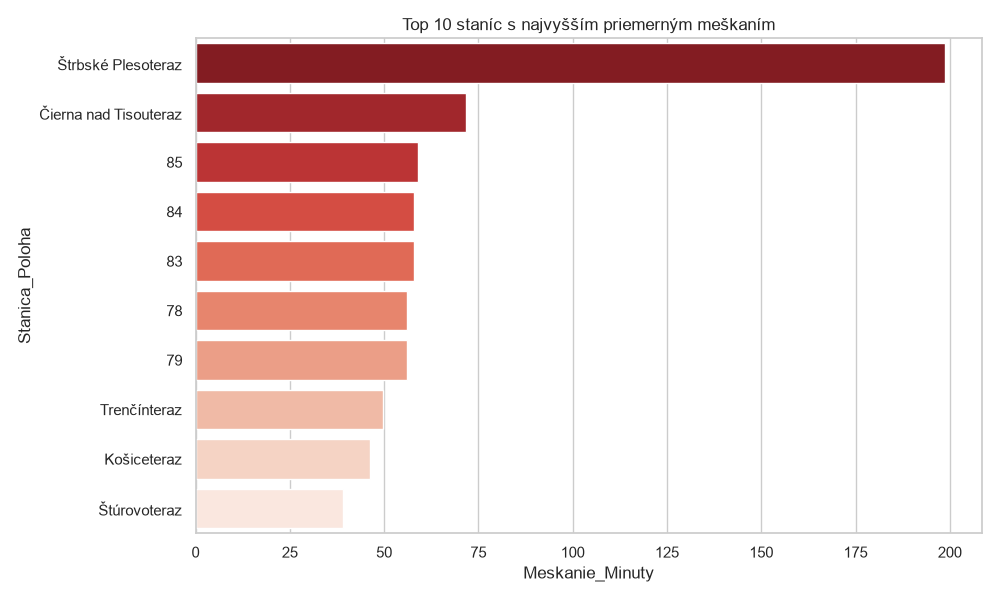
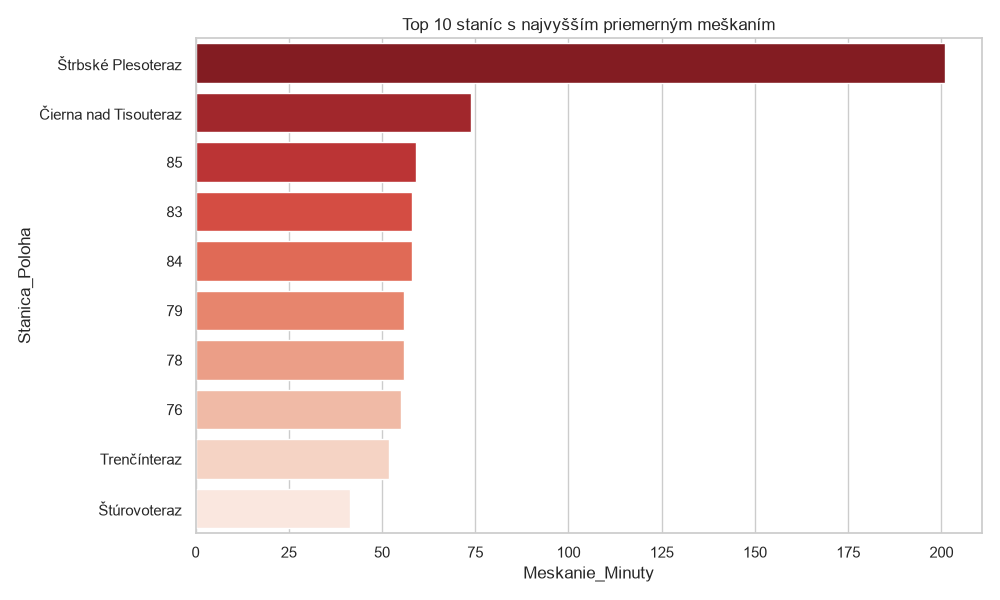
Aktualizácia dát, grafov a webu: 2026-10-23 09:18:00

diff --git a/index.html b/index.html
@@ -1,0 +1,42 @@
+<!DOCTYPE html>
+<html lang="sk">
+<head>
+    <meta charset="UTF-8">
+    <meta name="viewport" content="width=device-width, initial-scale=1.0">
+    <title>Meškanie vlakov na Slovensku</title>
+    <style>
+        body { font-family: Arial, sans-serif; max-width: 900px; margin: 0 auto; padding: 20px; background-color: #f4f4f9; color: #333; }
+        h1, h2 { color: #d9534f; }
+        .card { background: white; padding: 20px; margin-bottom: 20px; border-radius: 8px; box-shadow: 0 2px 4px rgba(0,0,0,0.1); }
+        pre { background: #eee; padding: 10px; border-radius: 4px; font-size: 16px; white-space: pre-wrap; }
+        img { width: 100%; height: auto; border-radius: 4px; margin-top: 10px; }
+        .footer { text-align: center; font-size: 12px; color: #77px; margin-top: 30px; }
+    </style>
+</head>
+<body>
+    <h1>🚂 Meškanie vlakov na Slovensku</h1>
+    <p>Automaticky aktualizovaný prehľad meškaní vlakov.</p>
+
+    <div class="card">
+        <h2>📊 Aktuálne štatistiky</h2>
+        <pre>BLESKOVÁ ŠTATISTIKA MEŠKANÍ
+Celkový počet zaznamenaných dát: 144
+Priemerné meškanie na Slovensku: 30.12 min.
+</pre>
+    </div>
+
+    <div class="card">
+        <h2>🛑 Top 10 staníc s najvyšším priemerným meškaním</h2>
+        <img src="grafy/1_kriticke_stanice.png" alt="Kritické stanice">
+    </div>
+
+    <div class="card">
+        <h2>📈 Vývoj meškania počas dňa</h2>
+        <img src="grafy/2_meskanie_pocas_dna.png" alt="Meškanie počas dňa">
+    </div>
+
+    <div class="footer">
+        Posledná aktualizácia: 2026-10-23 09:18:00
+    </div>
+</body>
+</html>
